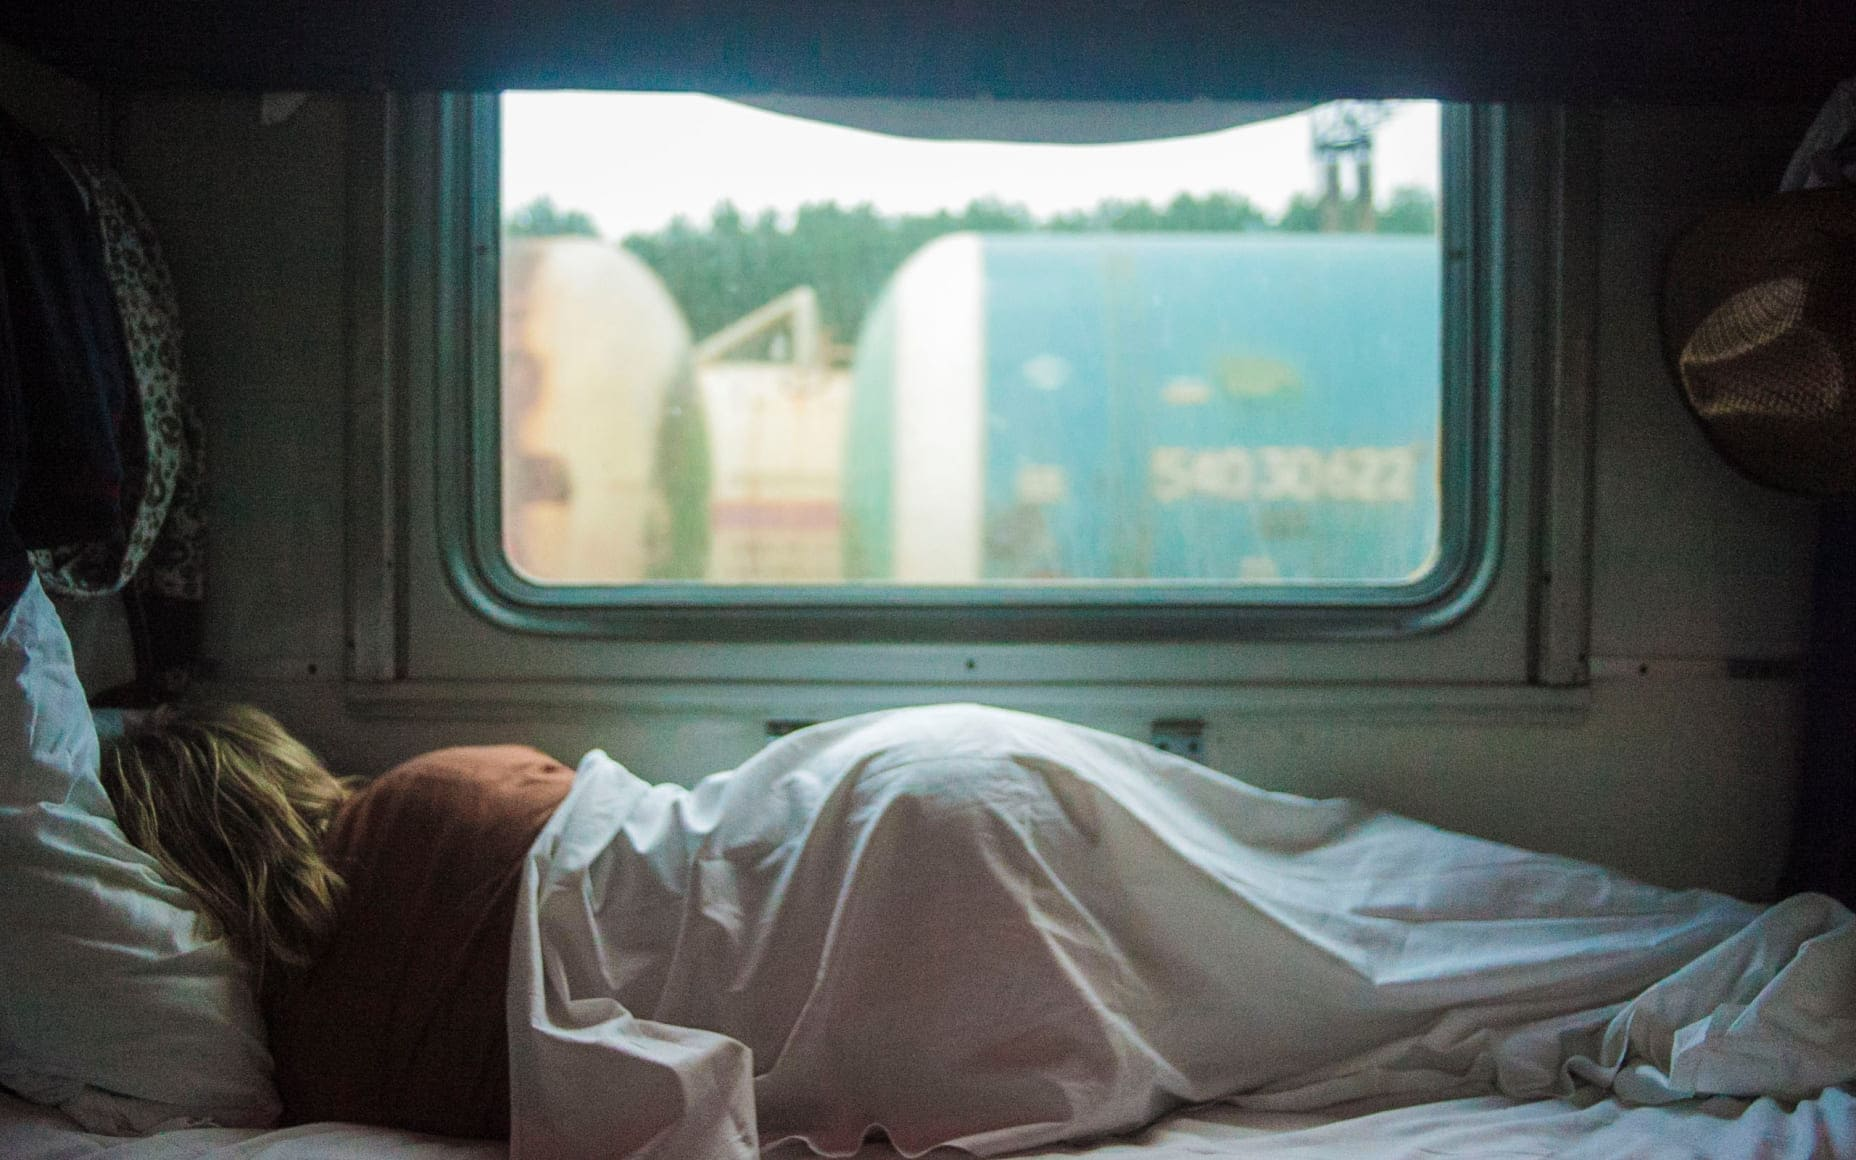
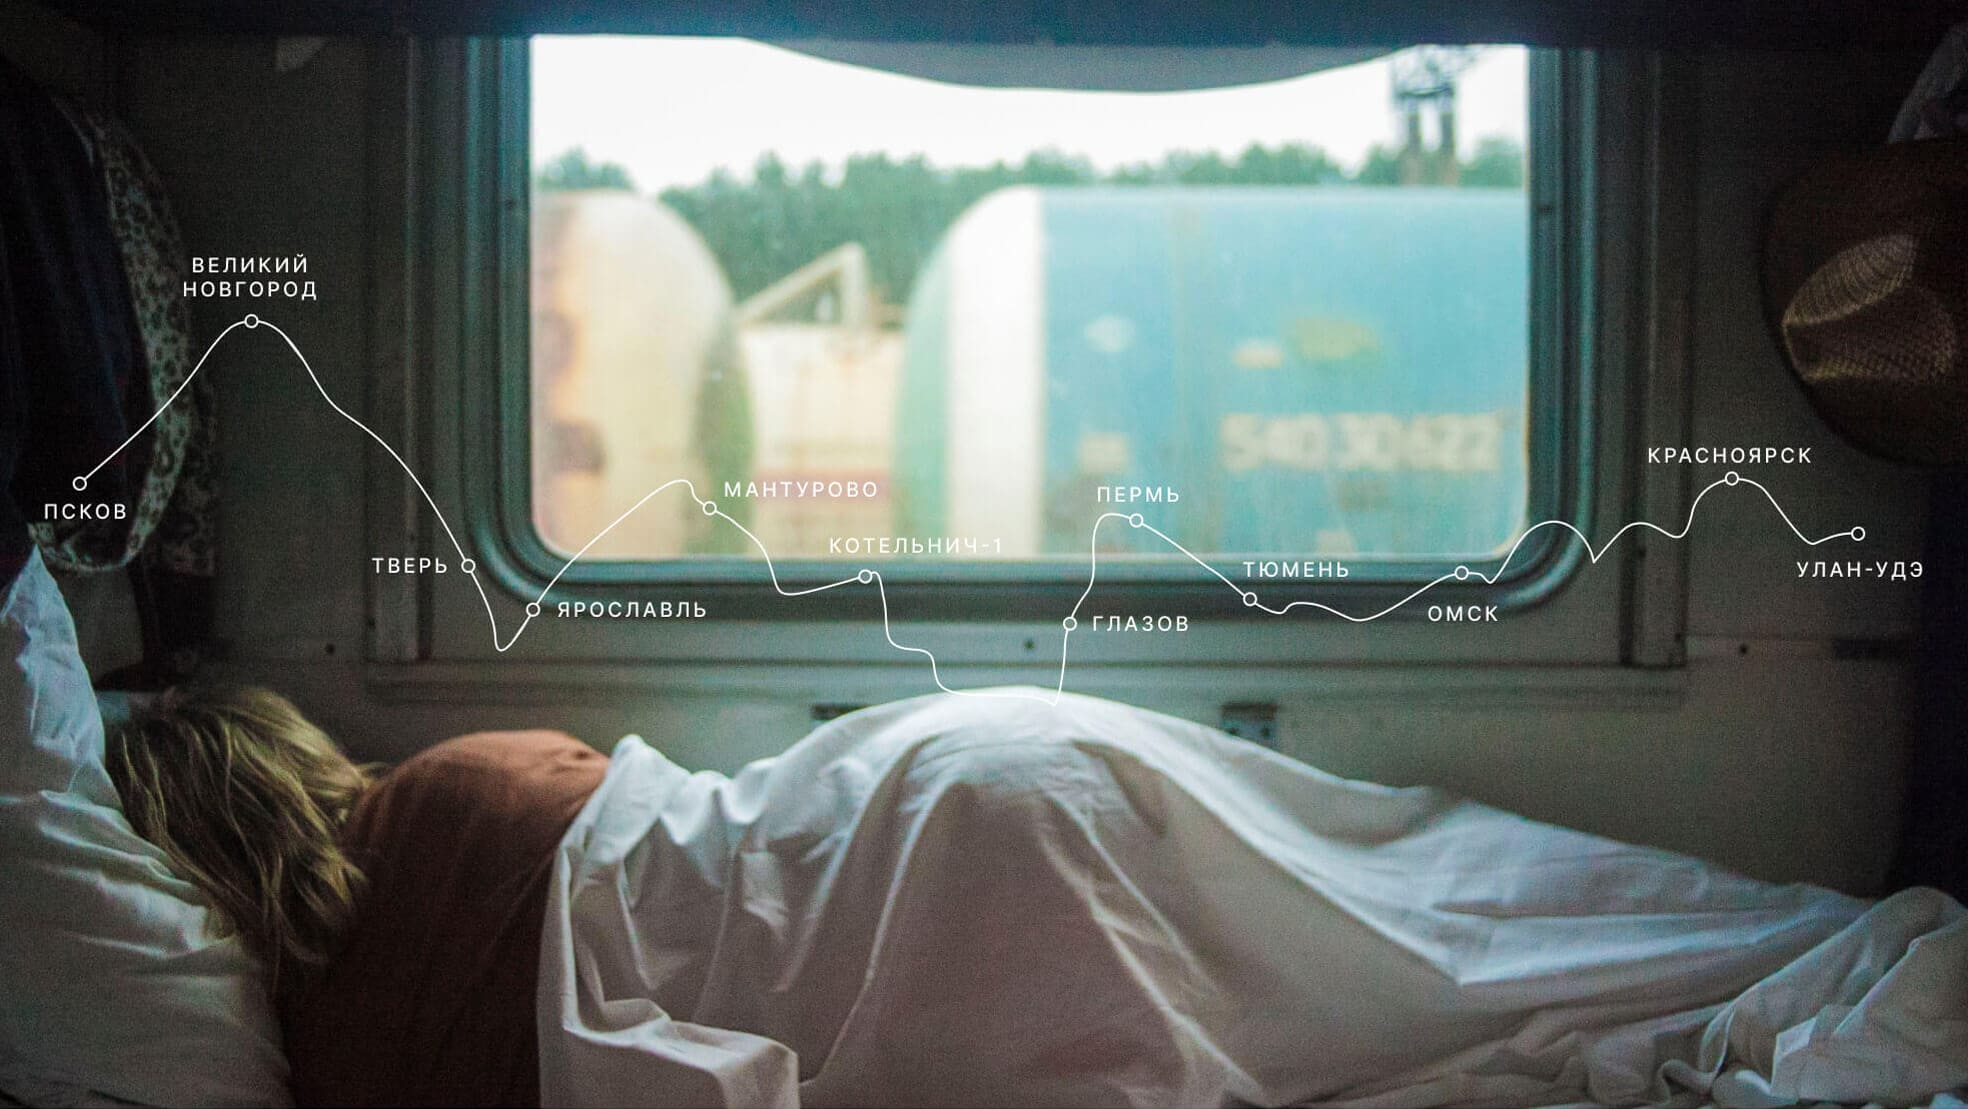
Добавлен README

diff --git a/blocks/root/root.css b/blocks/root/root.css
@@ -1,7 +1,14 @@
 .page {
-    margin: 0 auto;
-    background-color: #2A2C2F;
-    color: white;
-    font-family: 'Inter', Arial, sans-serif;
-    max-width: 1280px;
+  margin: 0 auto;
+  background-color: #2A2C2F;
+
+  color: white;
+  font-family: 'Inter', Arial, sans-serif;
+  -webkit-font-smoothing: antialiased;
+  -moz-osx-font-smoothing: grayscale;
+  -webkit-text-size-adjust: 100%;
+  -ms-text-size-adjust: 100%;
+  -moz-text-size-adjust: 100%;
+
+  max-width: 1280px;
 }

diff --git a/index.html b/index.html
@@ -192,7 +192,7 @@
             <li><a class="footer__link" href="https://calendar.yandex.ru" target="_blank">Календарь</a></li>
             <li><a class="footer__link" href="https://travel.yandex.ru" target="_blank">Путешествия</a></li>
         </ul>
-        <p class="footer__copyright">© 2020. Швалов Даниил</p>
+        <p class="footer__copyright">© 2020. Danil Shvalov</p>
     </footer>
 </body>
 

diff --git a/blocks/lead/__caption/lead__caption.css b/blocks/lead/__caption/lead__caption.css
@@ -7,7 +7,7 @@
 
     width: 100%;
 
-    margin: 0 auto;
+    margin: 8px auto 0;
     padding: 0;
 }
 

diff --git a/README.md b/README.md
@@ -5,19 +5,23 @@
 * Figma
 * Картинки
 
-**Интро**
+**Что это?**
 
-Здесь будет проект о путешествии по России.
-В Фигме мы разместили макет, в котором видно, как проект должен выглядеть на самых распространённых разрешениях экранов.
-Этот проект сложнее предыдущих, постарайтесь уделить ему больше времени.
+Это [страница](https://danilshvalov.github.io/russian-travel/), которая рассказывает о невероятных местах для путешествия по России. 
 
-**Figma**
 
-* [Ссылка на макет в Figma](https://www.figma.com/file/OyRWEjU6wBwRe1hapzQoLx/Sprint-3%3A-Russia-%2F-desktop-%2B-mobile?node-id=28503%3A0)
+<img src="./images/preview.jpg" alt="Превью страницы" width="570"/>
+---
 
-**Картинки**
+**Использованные технологии**
 
-Доставать картинки предстоит из Фигмы. Это расхожая практика, поэтому полезно потренироваться.
-Не забудьте [оптимизировать картинки](https://tinypng.com/), чтобы ваш сайт загружался быстрее.
+* Вёрстка по макету в [Figma](https://www.figma.com/file/OyRWEjU6wBwRe1hapzQoLx/Sprint-3%3A-Russia-%2F-desktop-%2B-mobile?node-id=28503%3A0)
+* Grid Layout
+* Flex-контейнеры
+* Пвсевдоклассы
+* Методология БЭМ
+* Адаптивные шрифты
+* Отзывчивые контейнеры
+* Медиа-запросы
+* Использование веток в Git
 
-Удачи!
